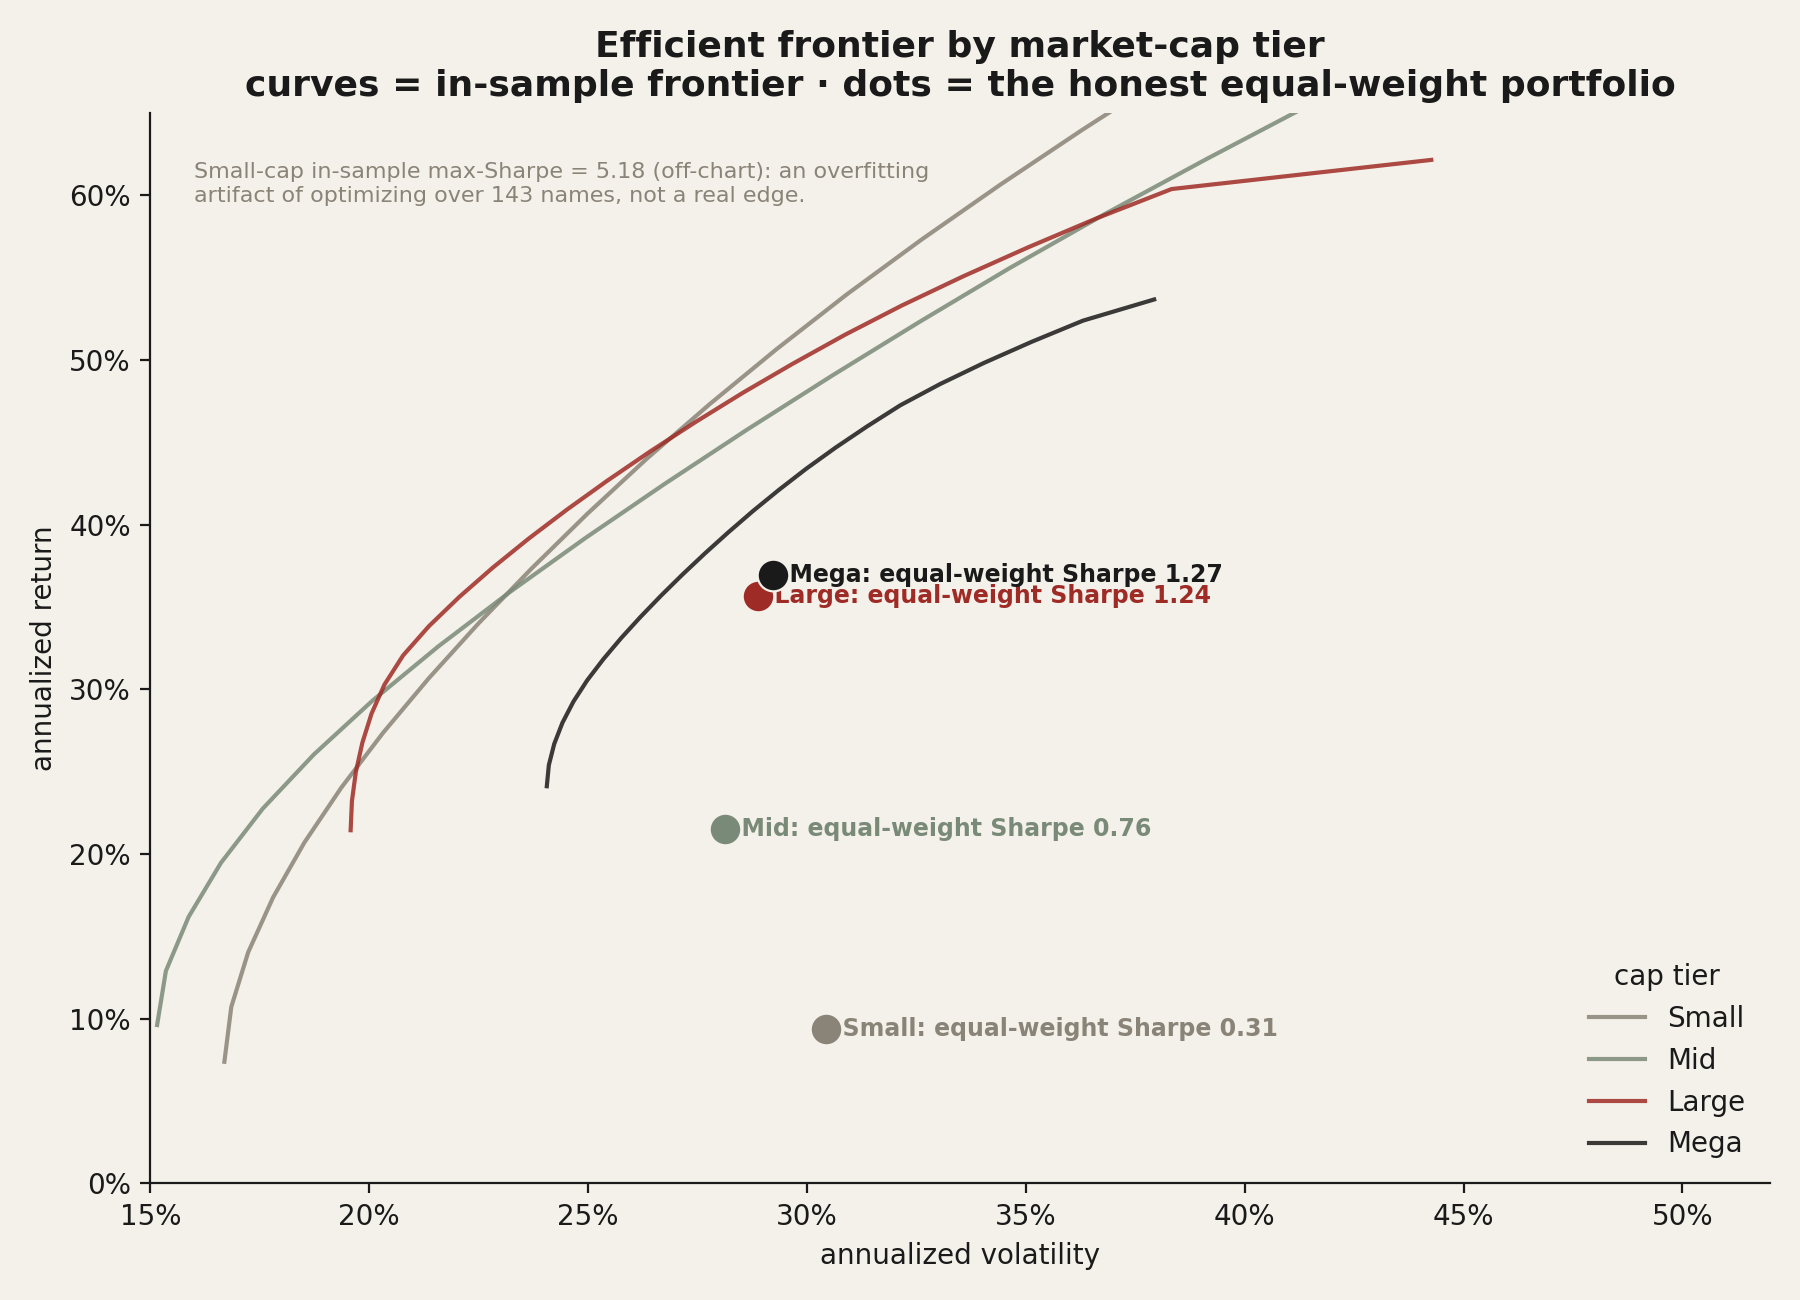
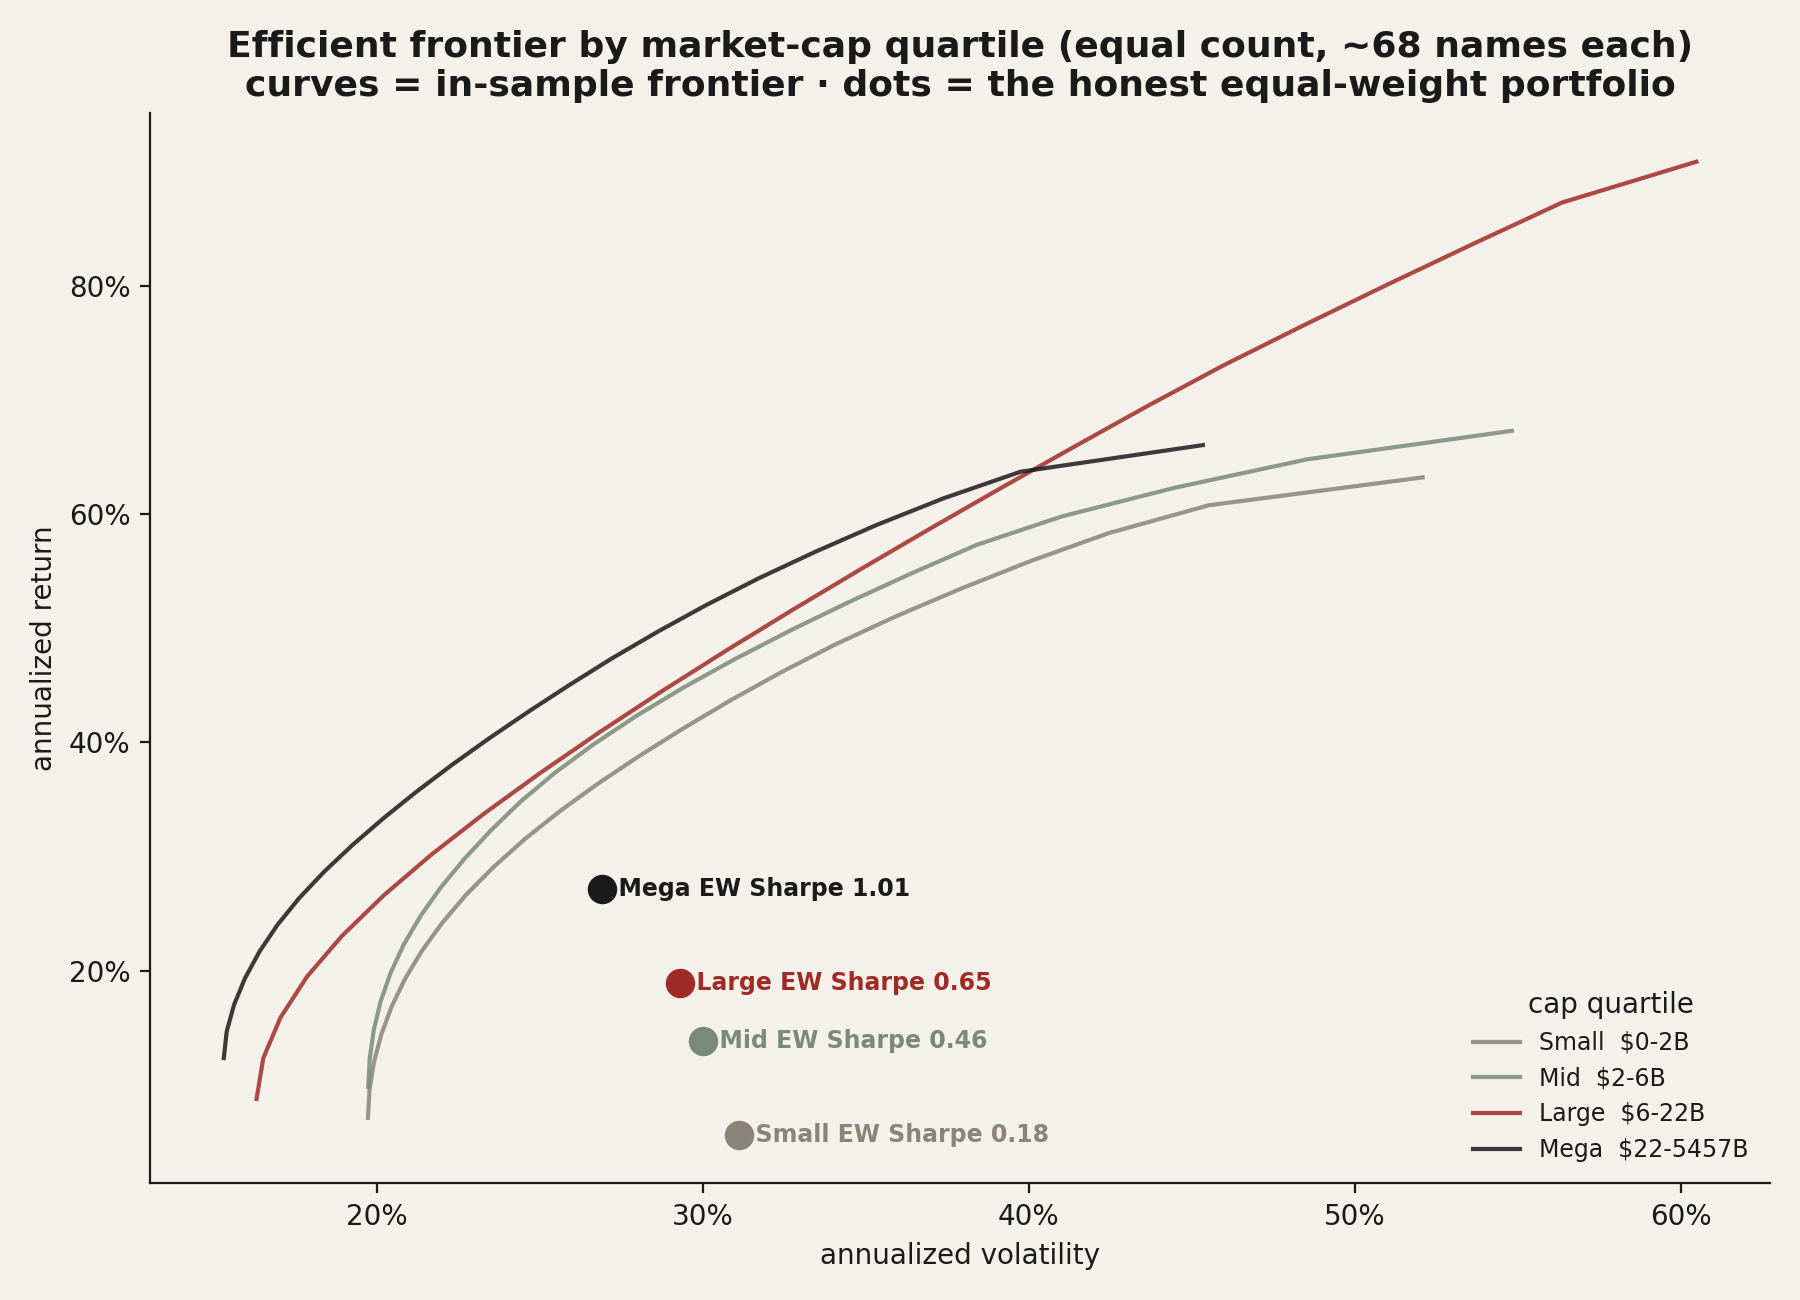
20: rebalance Part 3 — equal-count cap quartiles + Sharpe-vs-size line
Addresses two issues in the investability cut: (1) fig8 showed a stale pre-winsor
volatility axis (thousands %) — replaced with a Sharpe-vs-log-cap regression line
on all 253 names (the honest "is it a line?" view: +0.31 Sharpe per 10x cap,
corr +0.60); (2) the old absolute tiers were lopsided (143 small vs 11 mega) — now
four EQUAL-COUNT market-cap quartiles (~63 each), so the frontier comparison is fair
and the old small-cap "frontier win" is exposed as a sample-size artifact.

New balanced reads (monotonic): median name Sharpe -0.25 -> +0.52; % investable
14% -> 71%; EW Sharpe 0.18 -> 1.01; frontier max-Sharpe 1.43 -> 1.74. Long top-half /
short bottom-half Sharpe 1.29 (+13%/yr, vol 10%, maxDD -14%), WF [1.18, 1.40].
Daily returns winsorized +/-50%; >150% ann-vol names dropped (0 here, so vol is real).

diff --git a/20-sector-rotation/README.md b/20-sector-rotation/README.md
@@ -12,9 +12,9 @@ I came at it three ways, on two different datasets, because one cut can fool you
 
 - **By sector — rotation is real and large, but not tradeable.** Inside bear markets the defensive basket (staples, utilities, health care) beat the market by 15–20 points annualized; cyclicals led by a similar margin in bulls; energy marched to the inflation cycle instead. Yet a causal 200-day rotation netted **0.61 Sharpe vs 0.77 for buy-and-hold**, cut no drawdown, and the probability of backtest overfitting was **94%**.
 - **By size — there is no rotation at all, just beta.** Every cap bucket's up-capture equals its down-capture (spreads on zero, p ≥ 0.11); the "defensive small-cap in bears" reading is a calendar artifact (measured peak-to-trough, small caps fell *hardest* in 4 of 4 drawdowns, −32% vs −23%). The causal cap rotation lost to buy-and-hold and to its own random-timing placebo.
-- **Investability climbs monotonically with size.** Median single-name Sharpe runs Small **−0.19** → Mid +0.21 → Large +0.68 → Mega **+0.77**; the share of "investable" names runs **34% → 66% → 81% → 100%**; loss-makers run **56 of 143** small caps down to **1 of 11** megas; median drawdown −78% (small) vs −58% (mega).
-- **The efficient frontier is a trap.** Optimized in-sample it crowns the small bucket (it has the most names to cherry-pick) — a pure overfitting artifact. The honest read (equal-weight portfolio + median name) says the opposite: Large/Mega equal-weight Sharpe ~1.25 vs Small ~0.31.
-- **The combination — own the giants, short the minnows — worked in-sample.** Long mega+large / short mid+small earned the best Sharpe (**1.66**, +24%/yr, half the volatility, drawdown −18% vs −44%), positive in both walk-forward halves. But it is a regime-specific size/quality *factor* bet (one mega-cap-tech bull, gross of borrow), not the *rotation timing* the study set out to find.
+- **Investability climbs monotonically with size — a clean line.** Across 253 names in equal-count cap quartiles, a name's Sharpe rises **+0.31 for every 10× of market cap** (correlation +0.60). Median single-name Sharpe runs Small **−0.25** → Mid −0.04 → Large +0.02 → Mega **+0.52**; the share of "investable" names runs **14% → 32% → 40% → 71%**; loss-makers run **28 of 64** smallest down to **7 of 63** largest; median drawdown −84% (smallest) vs −56% (largest).
+- **The efficient frontier is a trap when buckets are unbalanced.** With 143 small vs 11 mega, in-sample optimization crowns the small bucket purely because it has more names to cherry-pick from (its max-Sharpe inflated to 5.18). With **equal-count quartiles** the artifact vanishes and even the optimized frontier is monotonic with size (Small 1.43 → Mega 1.74); the honest equal-weight read agrees (Small 0.18 → Mega 1.01).
+- **The combination — own the bigger half, short the smaller half — worked in-sample.** Long top-half / short bottom-half earned the best Sharpe (**1.29**, +13%/yr, a third of the volatility, drawdown −14% vs −44%), positive in both walk-forward halves [1.18, 1.40]. But it is a regime-specific size/quality *factor* bet (one mega-cap-tech bull, gross of borrow), not the *rotation timing* the study set out to find.
 - **The spine:** measure the rotation two ways → find it's real-but-untimeable (sectors) and not-even-real (size) → pivot to "what is worth owning" → frontier + per-name quality + the long/short → graded verdict.
 
 ## What I expected, and why
@@ -43,7 +43,8 @@ Two universes, both from a private price + reference warehouse; daily split-adju
 | Cut | Universe | Window | Benchmark |
 |---|---|---|---|
 | By sector | 9 SPDR sector ETFs (XLP/XLV/XLU/XLF/XLI/XLE/XLY/XBI/XLK) + SPY, RSP | 2016-05 → 2026-06 (2,525 days) | cap-weight SPY + equal-weight RSP |
-| By size / investability | The full liquid AI/tech complex, **242 US names** (Small <$10B ×143, Mid $10–100B ×67, Large $100–500B ×21, Mega >$500B ×11), screened to px ≥ $5 and median \$-volume ≥ $5M | 2021-06 → 2026-06 (~1,260 days) | equal-weight complex |
+| By size (rotation) | A curated **78-name** AI/tech complex with reported diluted-share history, in four cap buckets | 2021-05 → 2026-06 (~1,280 days) | equal-weight complex |
+| Investability (frontier) | The full liquid AI/tech complex, **253 US names** in four equal-count market-cap quartiles (~63 each: Small $0.1–1.9B, Mid $1.9–5.5B, Large $5.6–22B, Mega $22B+; only 11 names exceed $500B), px ≥ $5, median \$-volume ≥ $3M | 2021-06 → 2026-06 (~1,250 days) | equal-weight complex |
 
 Caps come from reported shares × price; profitability from the last four quarters of filed income statements. RSP (equal-weight) is the primary relative-strength benchmark for the sector cut because one sector (XLK) is ~30% of cap-weight SPY, so "leadership" measured against SPY is partly a concentration mirror.
 
@@ -141,55 +142,57 @@ Inside one corner of the market — the AI/tech complex — the cleanest version
 
 # Part 3 — So which slice is worth owning?
 
-If you can't *time* the rotation, the question that actually matters is which part of the market is simply worth holding. I broadened the complex to the **full 242 liquid AI/tech names** and asked it three ways: the efficient frontier per tier, every name on a risk-return-quality map, and the obvious trade your idea points at — own the giants, short the minnows.
+If you can't *time* the rotation, the question that actually matters is which part of the market is simply worth holding. I took the **full liquid AI/tech complex — 253 names** — and split it into **four equal-count market-cap quartiles** (~63 names each, so it is a balanced contest, not 143 minnows against 11 giants) and asked it three ways: every name's risk-adjusted return against its size, the efficient frontier per quartile, and the trade your idea points at — own the bigger half, short the smaller half. (The true >$500B giants are only **11 names** — the entire real population — so a fair test has to compare *quartiles*, not that handful. Daily returns are winsorized at ±50%/day and names with an implausible >150% annualized volatility are dropped; here that removes zero, so the volatility numbers are real.)
 
-### Finding 7 — Investability climbs with size, and the frontier hides it
+### Finding 7 — Investability rises with size, in a clean line
 
-- **What I expected & why.** The desk intuition is that small caps are where the alpha is — more inefficiency, more room to run. The frontier is supposed to show it.
-- **How I measured it.** A long-only Ledoit-Wolf efficient frontier per bucket (20%/name cap), but reported honestly: the **equal-weight** portfolio (no optimization) and the **median name** are the real investability reads, because an in-sample frontier optimized over more names always looks better.
+- **What I expected & why.** The desk intuition is that small caps are where the alpha hides — more inefficiency, more room to run. So smaller should pay more per unit of risk, if anything.
+- **How I measured it.** Two honest reads and one fair frontier. Regress every name's annualized Sharpe on the log of its market cap (the whole 253-name sample, no bucketing). Then per quartile, the **equal-weight** portfolio and the **median name**. Then a long-only Ledoit-Wolf efficient frontier per quartile — which is now a *fair* contest because every bucket has the same name count.
 
   ```python
-  cov = LedoitWolf().fit(bucket_returns).covariance_ * 252   # shrunk covariance
-  # max-Sharpe is in-sample and overfits; the honest points are:
-  ew_sharpe     = annualize(bucket.mean(axis=1)).sharpe       # buy the whole tier
-  median_sharpe = per_name_sharpe(bucket).median()            # the typical name
+  # the line: does risk-adjusted return depend on size? (full sample)
+  slope, intercept = polyfit(log10(market_cap_b), per_name_sharpe, 1)   # +0.31, corr +0.60
+  # per quartile, the honest reads:
+  ew_sharpe     = annualize(quartile.mean(axis=1)).sharpe
+  median_sharpe = per_name_sharpe(quartile).median()
   ```
 
-- **What the data shows.** The naive frontier is a trap: optimized in-sample it crowns the *small* bucket purely because it has 143 names to cherry-pick from. The honest reads invert it cleanly, and they are monotonic with size:
+- **What the data shows.** It is a line, and it points the opposite way to the desk intuition: a name's Sharpe rises **+0.31 for every 10× of market cap** (correlation **+0.60** across 253 names). The quartile reads are monotonic on every metric:
 
-  | Tier | Names | Median name Sharpe | % investable | Loss-makers | Median max-DD | Equal-weight Sharpe |
+  | Quartile (cap) | Names | Median name Sharpe | % investable | Loss-makers | Median max-DD | Equal-weight Sharpe |
   |---|---:|---:|---:|---:|---:|---:|
-  | Small <$10B | 143 | **−0.19** | 34% | 56 | −78% | 0.31 |
-  | Mid $10–100B | 67 | +0.21 | 66% | 14 | −61% | 0.76 |
-  | Large $100–500B | 21 | +0.68 | 81% | 0 | −59% | 1.24 |
-  | Mega >$500B | 11 | **+0.77** | 100% | 1 | −58% | **1.27** |
+  | Small $0.1–1.9B | 64 | **−0.25** | 14% | 28 | −84% | 0.18 |
+  | Mid $1.9–5.5B | 63 | −0.04 | 32% | 22 | −74% | 0.46 |
+  | Large $5.6–22B | 63 | +0.02 | 40% | 16 | −69% | 0.65 |
+  | Mega $22B+ | 63 | **+0.52** | 71% | 7 | −56% | **1.01** |
 
-![Efficient frontier by tier — curves overfit; the honest equal-weight dots say big wins](fig7_frontier_by_cap.png)
+![Every name's Sharpe against its market cap — a clean upward line (corr +0.60)](fig8_size_line.png)
 
-- **Why (mechanism).** The typical small AI/tech name is just a bad investment: negative risk-adjusted return, an 78% median drawdown, and a 39% chance it is outright loss-making. The giants compound; the minnows churn and crash. "Investable" is not evenly spread — it is concentrated at the top of the cap scale.
-- **What I checked.** The frontier's small-cap "win" is the overfitting tell, not an edge: its in-sample max-Sharpe scaled with the number of names (it was 5.18 before winsorizing the bad ticks), exactly what cherry-picking from a big pool produces.
-- **Verdict.** **Bigger is more investable**, on every honest metric. Inside any tier, only the top names clear the bar (e.g. the Mid bucket's best handful are genuinely investable; its loss-making tail is not).
+- **Why (mechanism).** The typical small AI/tech name is simply a bad investment: a negative median Sharpe, an **−84%** median drawdown, and a **44%** chance (28 of 64) it is outright loss-making. The giants compound; the minnows churn and crash. "Investable" is not spread evenly — it is concentrated at the top of the cap scale.
+- **What I checked — and what the balance fixed.** In an earlier, imbalanced cut (143 small vs 11 mega) the *optimized* frontier crowned the small bucket — but that was a pure sample-size artifact: with 143 names to cherry-pick from, the in-sample max-Sharpe inflates (it hit 5.18 before bad-tick winsorizing). With **equal counts**, that artifact disappears and even the optimized frontier max-Sharpe is now monotonic with size (Small 1.43 → Mega 1.74). Both the honest reads and the fair frontier now agree.
 
-![Every name by risk and return — X marks the loss-makers, clustered in small/high-vol](fig8_name_scatter.png)
+![Efficient frontier by quartile (equal count) — the Mega equal-weight dot dominates](fig7_frontier_by_cap.png)
 
-### Finding 8 — Own the giants, short the minnows: it worked — as a factor bet, not a timing edge
+- **Verdict.** **Bigger is more investable**, on every metric, as a clean +0.31-per-decade line. Inside any quartile only the top names clear the bar; the loss-making tail does not.
 
-- **What I expected & why.** Your idea, stated plainly: small and mid AI/tech are mostly unprofitable names unlikely to compound, so go long the giants and short the minnows. Under Part 2's "pure beta" finding this should *lose* (you'd be net short the higher-beta bucket in a bull) — unless the giants carry real quality/alpha over the minnows.
-- **How I measured it.** Equal-weight legs, net of the trade, plus a quality-screened version (long the *profitable* giants, short the *loss-making* minnows), benchmarked against simply holding the complex, with a walk-forward split.
+### Finding 8 — Own the bigger half, short the smaller half: it worked — as a factor bet, not a timing edge
+
+- **What I expected & why.** Your idea, stated plainly: small and mid AI/tech are mostly unprofitable names unlikely to compound, so go long the bigger half and short the smaller half. Under Part 2's "pure beta" finding this should *lose* (you'd be net short the higher-beta names in a bull) — unless the larger names carry real quality/alpha over the smaller ones.
+- **How I measured it.** Equal-weight legs: long the top half (Large+Mega quartiles, 126 names, $5.6B+), short the bottom half (Small+Mid, 127 names, <$5.6B), net of the trade; plus a quality-screened version (long the *profitable* big, short the *loss-making* small), benchmarked against holding the complex, with a walk-forward split.
 
   | Strategy (net) | Sharpe | CAGR | Vol | Max drawdown |
   |---|---:|---:|---:|---:|
-  | Hold the complex (equal-weight) | 0.45 | +13.0% | 29% | −44% |
-  | Long mega+large only | 1.34 | +37.9% | 28% | −43% |
-  | **Long mega+large / short mid+small** | **1.66** | +24.1% | 15% | **−18%** |
-  | Quality: long profitable / short loss-making | 1.12 | +23.3% | 21% | −23% |
+  | Hold the complex (equal-weight) | 0.46 | +13% | 29% | −44% |
+  | Long top-half (Large+Mega) only | 0.76 | +21% | 28% | −42% |
+  | **Long top-half / short bottom-half** | **1.29** | +13% | 10% | **−14%** |
+  | Quality: long profitable / short loss-making | 1.04 | +19% | 19% | −25% |
 
-![The combination — long-big / short-small is the smoothest line](fig9_longshort.png)
+![The combination — long the bigger half, short the smaller half, is the smoothest line](fig9_longshort.png)
 
-- **What the data shows.** It worked, and well: the long/short earned the best Sharpe (1.66) with half the volatility and a third of the drawdown of holding the complex, and it was positive in **both** walk-forward halves (Sharpe 1.20 then 2.09). Just *owning* the giants long-only returned +38%/yr — nearly triple the equal-weight complex. The minnows really are the drag your idea suspected.
-- **Why (mechanism).** This is not Part 2's beta talking. The giants delivered genuine quality — superior return *per unit of risk* — over a small-cap cohort that was 39% loss-making with −78% median drawdowns. Long-big / short-small harvested that quality spread with low net market exposure (vol fell to 15%).
-- **What I checked / the honest dents.** Three. (1) This is **one 5-year window dominated by a historic mega-cap-tech bull** — the big-over-small spread is regime-specific and a small-cap mean-reversion would punish it. (2) The short leg is **gross of borrow cost**, and shorting 143 small caps is not free or always possible. (3) It is a **static factor tilt, not the rotation timing** the study set out to find — which is exactly why it works where the timing rules failed.
-- **Verdict.** **Conditional yes.** Own-the-giants is a real, large, in-sample edge and the honest practical takeaway of the whole study — but treat it as a size/quality factor bet to be sized and hedged, not a free lunch or a market-timing signal.
+- **What the data shows.** It worked: the long/short earned the best Sharpe (**1.29**) with a third of the volatility (10% vs 29%) and a third of the drawdown (−14% vs −44%) of holding the complex, and it was positive in **both** walk-forward halves (Sharpe 1.18 then 1.40). Just *owning* the bigger half long-only returned +21%/yr at a much shallower drawdown than the complex. The smaller names really are the drag your idea suspected.
+- **Why (mechanism).** This is not Part 2's beta talking. The larger names delivered genuine quality — superior return *per unit of risk* — over a smaller-cap cohort riddled with loss-makers and −80%-ish drawdowns. Long-big / short-small harvested that quality spread with low net market exposure (vol fell to 10%).
+- **What I checked / the honest dents.** Three. (1) This is **one 5-year window dominated by a historic mega-cap-tech bull** — the big-over-small spread is regime-specific and a small-cap mean-reversion would punish it. (2) The short leg is **gross of borrow cost**, and shorting ~127 small caps is neither free nor always possible. (3) It is a **static size/quality factor tilt, not the rotation timing** the study set out to find — which is exactly why it works where the timing rules failed.
+- **Verdict.** **Conditional yes.** Own-the-bigger-half is a real, large, in-sample edge and the practical takeaway of the whole study — but treat it as a size/quality factor bet to be sized, cost-, and regime-hedged, not a free lunch or a market-timing signal.
 
 ---
 
@@ -214,8 +217,8 @@ Pulled together as one goal, the conclusions had to survive a forward split, a c
 | Cut | Is the rotation real? | Tradeable by timing? | The usable takeaway |
 |---|---|---|---|
 | By sector (9 ETFs) | **Yes** — defensives +15–20pp in bears, cyclicals lead bulls, energy off-axis | **No** — causal rotation 0.61 vs SPY 0.77 Sharpe, no drawdown cut, PBO 94% | a positioning/regime map |
-| By size (242 names) | **No** — pure symmetric beta; "defensive small-cap" is a calendar artifact | **No** — cap rotation 1.13 vs 1.26 buy-hold, beaten by random timing | size is a beta dial |
-| Investability (frontier) | n/a | n/a | **big ≫ small** (median Sharpe −0.19→+0.77; 34%→100% investable); long-big/short-small Sharpe **1.66** in-sample |
+| By size (78 names) | **No** — pure symmetric beta; "defensive small-cap" is a calendar artifact | **No** — cap rotation 1.13 vs 1.26 buy-hold, beaten by random timing | size is a beta dial |
+| Investability (253 names) | n/a | n/a | **big ≫ small** (Sharpe +0.31 per 10× cap, corr +0.60; median name −0.25→+0.52; 14%→71% investable); long-big/short-small Sharpe **1.29** in-sample |
 
 **Separating the two questions.** *Did the rotation hold and can you trade it?* Real by sector, absent by size, untimeable in both. *What did I actually learn that's usable?* The cross-sectional quality gap — own the giants, avoid the minnows — is the real, monetizable structure here, where the cyclical timing was not. The live alternative I cannot fully exclude: a genuine cross-sector rotation could exist that a tech-heavy size lens cannot see, and the long/short's edge could be a mega-cap-bull artifact that a different regime erases.
 
@@ -251,6 +254,6 @@ Every confidence interval is a block/stationary bootstrap (5–21-day blocks). F
 ## References & forward pointer
 
 - Up/down-capture is the standard Morningstar geometric definition; the 200-day-average trend filter and relative-rotation construction are standard, publicly documented. Ledoit, O. & Wolf, M. (2004), *Honey, I Shrunk the Sample Covariance Matrix.* Politis, D. & Romano, J. (1994), *The stationary bootstrap.*
-- Data: daily split-adjusted closes for the nine SPDR sector ETFs + SPY/RSP (2016–2026) and 242 liquid AI/tech names (2021–2026); reported shares and quarterly income statements for the cap split and quality screen; 10-year Treasury yield and VIX (public) for the energy and correlation overlays.
+- Data: daily split-adjusted closes for the nine SPDR sector ETFs + SPY/RSP (2016–2026) and the liquid AI/tech complex (78 names for the size-rotation cut, 253 for the investability cut, 2021–2026); reported shares and quarterly income statements for the cap split and quality screen; 10-year Treasury yield and VIX (public) for the energy and correlation overlays.
 
 **Builds on / part of** the repo-wide thread on *which "edges" survive an honest test*: the four-cap-bucket lens of [study 01 — volume-sweep microstructure](../01-volume-sweep-microstructure/) (where size scales *noise*; here it scales *beta* and *quality*), the concentration view of [study 11 — semiconductor concentration](../11-semiconductor-concentration/), and the timing-overlay null of [study 16 — narrow leadership and the index](../16-narrow-leadership-and-the-index/). **Next:** turning the own-the-giants tilt into a properly cost-, borrow-, and regime-hedged factor test — the question this study leaves open.

diff --git a/README.md b/README.md
@@ -29,7 +29,7 @@ The data pipeline that produces these results is operated privately. This reposi
 | 17 | [Semiconductor supply-chain layers](17-semiconductor-layers/) | Which layer leads, and how much of the lead is just owning chips? | Completing the roster to 143 names barely moves the leaderboard (Spearman rho 0.962; only EMS re-ranks, by dilution). On raw return 6 of 13 layers beat the semis ETF (SMH), but strip out chip-beta with a Newey-West regression and 0 of 13 has significant alpha (best t=1.9) — the lead is leveraged semiconductor beta, not an edge. The one real cross-sectional pattern is size: mid-caps ($10-100B) returned +938% (47% beat SMH) while small-caps (<$10B) lagged at +244% (8% beat SMH). |
 | 18 | [Computex event study](18-computex-event-study/) | Do the chip names that headline or supply Computex beat the semis tape after the keynote? | No robust alpha — abnormal vs SMH is statistically zero at every horizon (0 of 40 cells significant) and flips sign across robustness cuts (drop-2021 +1.2%, pre-2021 listings −2.4%); the median name beats SMH less than half the time. Own SMH, not the basket. |
 | 19 | [Shorting the semis](19-shorting-the-semis/) | Does conditioning a semiconductor short on "overbought" (RSI>70, >15% above 200-DMA, +20%/21d) beat shorting blind, and does the answer depend on size? | No. Across 68 chip names over ten years the overbought short earns a negative edge over a blind short at every horizon (5/21/63/126d: -0.15 / -0.40 / -1.93 / -4.29pp). Size doesn't save it (negative for >$500B and <$10B; the only positive bucket is 4 names); a genuinely selective filter (all-three, 3.5% of days) is the worst short of all; the null is worse out of sample and unchanged by borrow cost. Overbought is a melt-up warning, not a short signal. |
-| 20 | [Sector rotation](20-sector-rotation/) | Does money rotate with the market cycle — by sector and by size — can you trade it, and which slice is worth owning? | Three cuts, one lesson. By sector, rotation is real and large (defensives beat the market +15-20pp annualized in bears, cyclicals lead bulls, energy off-axis) but a causal 200-DMA rotation loses to buy-and-hold (0.61 vs 0.77 Sharpe, PBO 94%). By size there is no rotation at all - pure symmetric beta, and the 'defensive small-cap' reading is a calendar artifact. You can't time it either way. The usable edge is which slice to own: investability climbs monotonically with size (median name Sharpe -0.19 small to +0.77 mega; 34% to 100% investable), and a static long mega+large / short mid+small tilt earned the best risk-adjusted return in-sample (Sharpe 1.66) - a regime-specific quality factor bet, not a timing signal. |
+| 20 | [Sector rotation](20-sector-rotation/) | Does money rotate with the market cycle — by sector and by size — can you trade it, and which slice is worth owning? | Three cuts, one lesson. By sector, rotation is real and large (defensives beat the market +15-20pp annualized in bears, cyclicals lead bulls, energy off-axis) but a causal 200-DMA rotation loses to buy-and-hold (0.61 vs 0.77 Sharpe, PBO 94%). By size there is no rotation at all - pure symmetric beta, and the 'defensive small-cap' reading is a calendar artifact. You can't time it either way. The usable edge is which slice to own: across 253 names in equal-count cap quartiles, investability rises with size in a clean line (+0.31 Sharpe per 10x cap, corr 0.60; median name Sharpe -0.25 smallest to +0.52 largest; 14% to 71% investable), and a static long top-half / short bottom-half tilt earned the best risk-adjusted return in-sample (Sharpe 1.29) - a regime-specific quality factor bet, not a timing signal. |
 | 21 | [A semiconductor risk-overlay model](21-semis-risk-model/) | Can a simple risk dial beat just holding the chips, or does it only make the ride smoother? | It only makes the ride smoother. Across 36 chip stocks (2022-26, ~5y daily) a trend dial that halves net-long when the basket loses its 200-day average or falls >10% off its 60-day high cuts the worst drawdown from -43% to -30% full-sample, and it does so in every market-cap bucket (small caps -51% to -38%, mega caps -46% to -34%) so the protection is not a mega-cap artifact. But the Sharpe edge over buy-and-hold is +0.07 with a bootstrap CI of [-0.20, +0.35] that straddles zero, and the scorecard de-risk value is -4pp (the wrong sign for a timer). Verdict: a validated drawdown-reducer, not alpha. Robust across nine floor/MA settings (Sharpe 1.18-1.29); the one honest dent is the 2023 chop, where whipsaw made drawdown 2pp worse. |
 | 23 | [Equity issuance as a market-top signal](23-equity-issuance-top-signal/) | Does a wave of equity issuance (IPOs + secondary offerings) mark an overpriced market and predict weak forward returns? | No usable timing signal — across 2001–2026 (Nasdaq Composite + SPY/QQQ/RSP) with survivorship-free EDGAR filing counts, 0 of 12 non-overlapping annual tests are significant. A faint IPO/SPAC froth tilt survives in direction (strongest in tech) but is ~half momentum and 2020–22-bound; the "SEOs invert" result is an EDGAR coverage-ratio artifact; mega-caps are net repurchasers. The real effect is cross-sectional (study 15), not market timing. |
 